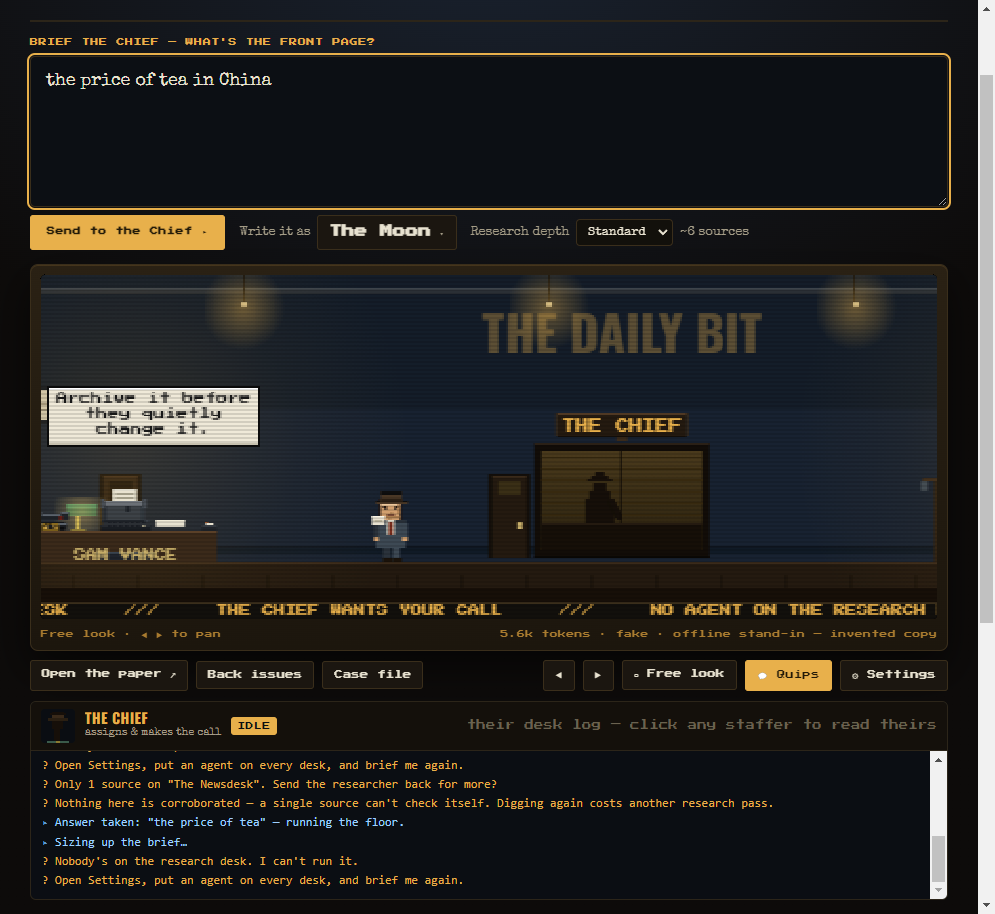
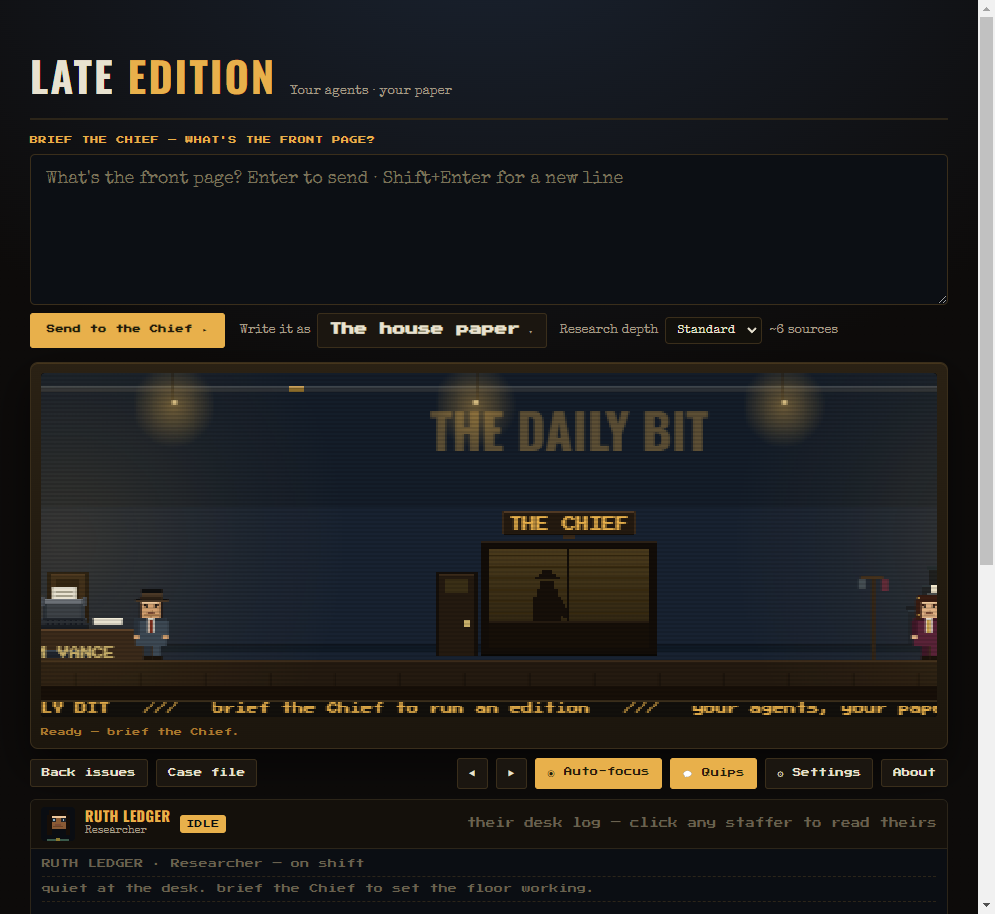
docs: photograph the newsroom, and say what it looks like
The README described what the app does and never once said what it is. No
mention of the art, the cast, or the fact that the floor is the progress bar —
which is the first thing anyone notices and the reason the thing is worth
looking at rather than reading about.

New section with a GIF of a real edition being filed, the art direction in a
paragraph, and the nine people on the floor by name.

The stills are captured from the running Electron app over the DevTools
protocol, against a throwaway newsroom, so they can be retaken on any build
without staging anything by hand and without showing a real newsroom's
contents. The hero shot is replaced with a current one; the previous one
predates the outlet picker.

Changed region(s): [[0.0312, 0.0306, 1.0, 1.0], [0.9347, 0.0, 1.0, 0.0919], [0.9347, 0.1225, 0.9658, 0.1838]]

diff --git a/README.md b/README.md
@@ -10,6 +10,8 @@
 
 ![The newsroom at work](docs/media/newsroom.png)
 
+**[Read the wiki](https://github.com/david-crabtree/late-edition/wiki)** for setup, the eleven papers, the art, and everything else.
+
 You brief the Chief with a topic. A researcher digs, reporters file competing angles, an
 editor picks the line, the copy desk cuts anything that doesn't stand up, and the presses
 run. You get a paper. It runs on the Claude Code or Codex subscription already sitting on
@@ -78,6 +80,28 @@ hungriest desk — and a strong one on the editor, who makes the call.
 3. Type a topic into **Brief the Chief** and press send.
 4. Watch the floor work. Answer the Chief if he asks anything.
 5. Read the paper.
+
+## The floor is the progress bar
+
+![An edition being filed](docs/media/the-floor-working.gif)
+
+Most tools that call an agent show you a spinner. This one shows you an office, and the
+office is telling you something. When the researcher is digging, Ruth is at her desk typing.
+When the editor is choosing between two angles, the camera is on the Chief. The wire ticker
+along the bottom carries what the newsroom is thinking, and clicking any staffer opens their
+desk log, which is that stage's real output rather than a summary of it.
+
+The look is late-80s point-and-click adventure in a 1930s-40s newsroom: amber lamplight,
+blue-black shadow, and one hot red accent held back for **Stop the Press**. All original art,
+32 indexed colours, nearest-neighbour only, and every pixel drawn in code — there are no
+image assets in the app at all. The full specification, down to frame counts and pivot
+points, is in [`docs/art-brief.md`](docs/art-brief.md).
+
+Nine faces work the floor: the Chief, Ruth Ledger on research, Sam Vance reporting, Dot
+Banner editing, Hal Brevier on rewrite, Mac Stet on the copy desk, Gus Dash running copy,
+Ida Stringer in the field and Iris Plate on pictures.
+
+More in the wiki: [The newsroom floor](https://github.com/david-crabtree/late-edition/wiki/The-newsroom-floor).
 
 ## Write it as
 
